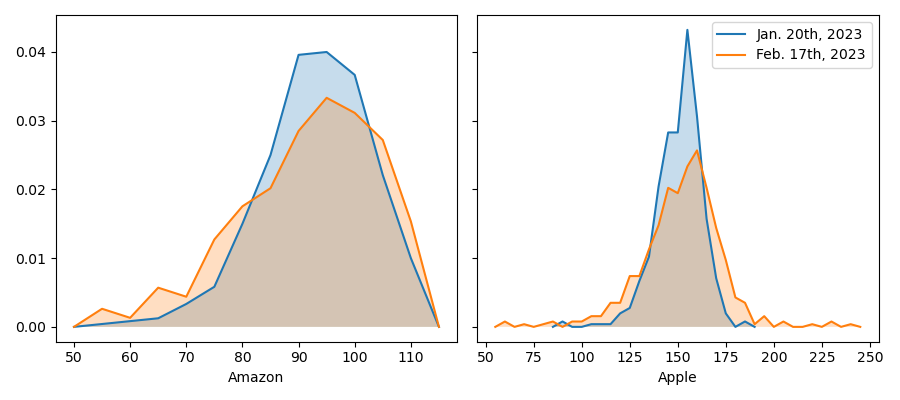
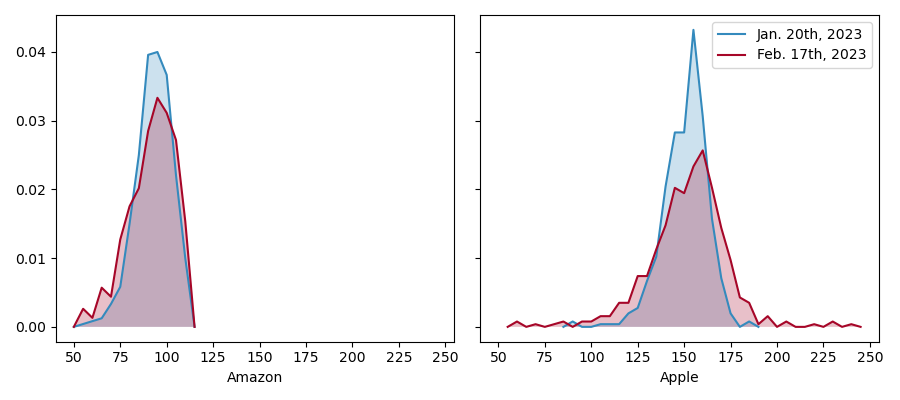
update empirical with low-info bounds

diff --git a/example_cross_empirical.py b/example_cross_empirical.py
@@ -1,0 +1,257 @@
+# -*- coding: utf-8 -*-
+"""
+Created on Mon May 24 17:35:25 2021
+@author: souzam
+PyTorch implementation of Eckstein and Kupper 2021 - Computation of Optimal Transport...
+"""
+
+# empirical marginals, d = 2
+# Example 1:   max cross-product
+# Example 2:   min cross-product
+#
+#   cross-product function (to be maximized):   cost_f(x, y) = y1 * y2
+#
+# Coupling structure:
+#   (1)   independent (4 dimensions))
+#   (2)   montone, dimension reduction on x (3 dimensions)
+#
+# Method: use vmot_core to generate "working sample" objects to be used in the optimization loop.
+# The optimization loop performs the dual approximation based on EK21.
+# We experiment with dimensionlality reduction and random vs grid sampling methods.
+
+
+import numpy as np
+import matplotlib.pyplot as pl
+from cycler import cycler
+
+import vmot
+import option_implied_inverse_cdf as empirical
+
+
+# processing parameters
+d = 2
+n_points = 1000000
+print(f'd: {d}')
+print(f'sample size: {n_points}')
+opt_parameters = { 'penalization'    : 'L2',
+                   'beta_multiplier' : 1,
+                   'gamma'           : 100,
+                   'batch_size'      : 2000,   # no special formula for this
+                   'epochs'          : 10      }
+
+# cost function to be maximized
+A = 0
+B = 1
+def cost_f(x, y):
+    # cost = A.x1.x2 + B.y1.y2
+    return A * x[:,0] * x[:,1] + B * y[:,0] * y[:,1]
+
+# negative, used to minimize the cost
+def minus_cost_f(x, y):
+    return -cost_f(x, y)
+
+
+AMZN_inv_cdf = empirical.AMZN_inv_cdf
+AAPL_inv_cdf = empirical.AAPL_inv_cdf
+
+def empirical_inv_cum_xi(q, i):
+    if i == 0:
+        return AMZN_inv_cdf[0](q)
+    if i == 1:
+        return AAPL_inv_cdf[0](q)
+
+def empirical_inv_cum_yi(q, i):
+    if i == 0:
+        return AMZN_inv_cdf[1](q)
+    if i == 1:
+        return AAPL_inv_cdf[1](q)
+
+def empirical_inv_cum_x(q):
+    return np.array([empirical_inv_cum_xi(q, i) for i in range(d)]).T
+
+
+# processing
+I = 10           # number of desired iterations
+existing_i = 10
+np.random.seed(1)
+example = 1
+if example == 1:
+    cost = cost_f
+    label = 'empirical'
+if example == 2:
+    cost = minus_cost_f
+    label = 'minus_empirical'
+
+if existing_i == 0:
+    # train & dump
+    print('\niteration 1 (new model)\n')
+    uvset1  = vmot.random_uvset(n_points, d)
+    uvset2  = vmot.random_uvset_mono(n_points, d)
+    ws1, xyset1 = vmot.generate_working_sample_uv(uvset1, empirical_inv_cum_xi, empirical_inv_cum_yi, cost_f)
+    ws2, xyset2 = vmot.generate_working_sample_uv_mono(uvset2, empirical_inv_cum_x, empirical_inv_cum_yi, cost_f)
+    model1, D_evo1, H_evo1, P_evo1, ds_evo1, hs_evo1 = vmot.mtg_train(ws1, opt_parameters, monotone = False, verbose = 10)
+    model2, D_evo2, H_evo2, P_evo2, ds_evo2, hs_evo2 = vmot.mtg_train(ws2, opt_parameters, monotone = True, verbose = 10)
+    existing_i = 1
+    print('models generated')
+    vmot.dump_results([model1, D_evo1, H_evo1, P_evo1, ds_evo1, hs_evo1], label + '_1')
+    vmot.dump_results([model2, D_evo2, H_evo2, P_evo2, ds_evo2, hs_evo2], label + '_mono_1')
+else:
+    # load
+    print(f'\nloading model {existing_i}')
+    model1, D_evo1, H_evo1, P_evo1, ds_evo1, hs_evo1 = vmot.load_results(label + f'_{existing_i}')
+    model2, D_evo2, H_evo2, P_evo2, ds_evo2, hs_evo2 = vmot.load_results(label + f'_mono_{existing_i}')
+
+# iterate optimization
+while existing_i < I:
+    
+    # new random sample
+    print(f'\niteration {existing_i+1}\n')
+    uvset1 = vmot.random_uvset(n_points, d)
+    uvset2 = vmot.random_uvset_mono(n_points, d)
+    # ws1, xyset1 = vmot.generate_working_sample_uv(uvset1, empirical_inv_cum_xi, empirical_inv_cum_yi, cost_f)
+    # ws2, xyset2 = vmot.generate_working_sample_uv_mono(uvset2, empirical_inv_cum_x, empirical_inv_cum_yi, cost_f)
+    ws1, xyset1 = vmot.generate_working_sample_uv(uvset1, empirical_inv_cum_xi, empirical_inv_cum_yi, cost_f)
+    ws2, xyset2 = vmot.generate_working_sample_uv_mono(uvset2, empirical_inv_cum_x, empirical_inv_cum_yi, cost_f)
+    
+    # train
+    _model1, _D_evo1, _H_evo1, _P_evo1, _ds_evo1, _hs_evo1 = vmot.mtg_train(ws1, opt_parameters, model=model1, monotone = False, verbose = 10)
+    _model2, _D_evo2, _H_evo2, _P_evo2, _ds_evo2, _hs_evo2 = vmot.mtg_train(ws2, opt_parameters, model=model2, monotone = True, verbose = 10)
+    
+    # concatenate
+    D_evo1  = D_evo1  + _D_evo1
+    H_evo1  = H_evo1  + _H_evo1
+    P_evo1  = P_evo1  + _P_evo1
+    ds_evo1 = ds_evo1 + _ds_evo1
+    hs_evo1 = hs_evo1 + _hs_evo1
+    model1 = _model1
+    D_evo2  = D_evo2  + _D_evo2
+    H_evo2  = H_evo2  + _H_evo2
+    P_evo2  = P_evo2  + _P_evo2
+    ds_evo2 = ds_evo2 + _ds_evo2
+    hs_evo2 = hs_evo2 + _hs_evo2
+    model2 = _model2
+    existing_i = existing_i + 1
+    print('models updated')
+    
+    # dump
+    vmot.dump_results([model1, D_evo1, H_evo1, P_evo1, ds_evo1, hs_evo1], f'minus_empirical_{existing_i}')
+    vmot.dump_results([model2, D_evo2, H_evo2, P_evo2, ds_evo2, hs_evo2], f'minus_empirical_mono_{existing_i}')
+    
+    # plot
+    evo1 = np.array(D_evo1) # random, independent
+    evo2 = np.array(D_evo2) # random, monotone
+    vmot.convergence_plot([-evo2, -evo1], ['reduced', 'full'], ref_value=-sample_mean_cost)
+    vmot.convergence_plot([-evo2, -evo1], ['reduced', 'full'], ref_value=-sample_mean_cost)
+    
+    
+# --- report mean and std over a collection of samples ---
+
+# store cost and calculate (unconditional) sample mean, if used
+cost_series = None
+sample_mean_cost = 0.0   # lower reference for the optimal cost
+
+report = True
+if report:
+    collection_size = 2 #10
+    D1_series = []
+    D2_series = []
+    P1_series = []
+    P2_series = []
+    for i in range(collection_size):
+        print(i)
+        uvset1 = vmot.random_uvset(n_points, d)
+        uvset2 = vmot.random_uvset_mono(n_points, d)
+        ws1, xyset1 = vmot.generate_working_sample_uv(uvset1, empirical_inv_cum_xi, empirical_inv_cum_yi, cost_f)
+        ws2, xyset2 = vmot.generate_working_sample_uv_mono(uvset2, empirical_inv_cum_x, empirical_inv_cum_yi, cost_f)
+        if cost_series is None: 
+            cost_series = np.hstack([ws1[:,-2], ws2[:,-2]])
+        else:
+            cost_series = np.hstack([cost_series, ws1[:,-2], ws2[:,-2]])
+        D1, P1, __ = vmot.mtg_dual_value(model1, ws1, opt_parameters, normalize_pi = False)
+        D2, P2, __ = vmot.mtg_dual_value(model2, ws2, opt_parameters, normalize_pi = False)
+        D1_series.append(D1)
+        D2_series.append(D2)
+        P1_series.append(P1)
+        P2_series.append(P2)
+    sample_mean_cost = cost_series.mean()   # central reference for the upper and lower bounds
+    print(f'sample mean cost = {sample_mean_cost:7.4f}')
+    print('dual value')
+    print(f'full:     mean = {np.mean(D1_series):8.4f};   std = {np.std(D1_series):8.4f}')
+    print(f'reduced:  mean = {np.mean(D2_series):8.4f};   std = {np.std(D2_series):8.4f}')
+    print('penalty')
+    print(f'full:     mean = {np.mean(P1_series):8.4f};   std = {np.std(P1_series):8.4f}')
+    print(f'reduced:  mean = {np.mean(P2_series):8.4f};   std = {np.std(P2_series):8.4f}')
+
+
+
+# --- low-information bounds ---
+# for the sake of comparison, calculate p+ and p- when only the t=2 distribution is known
+
+def single_period_cost_f(y):
+    # cost = A.x1.x2 + B.y1.y2
+    return y[:,0] * y[:,1]
+
+# monospaced diagonal
+diag_n  = int(1e7)
+diag_grid = np.array(range(diag_n))
+uv_set = (2 * diag_grid + 1) / (2 * diag_n)   # points in the d-hypercube
+
+# mean costs
+positive_diag_y = np.vstack([empirical_inv_cum_yi(uv_set, 0), empirical_inv_cum_yi(uv_set, 1)]).T
+positive_cost = single_period_cost_f(positive_diag_y)
+mean_positive_cost = positive_cost.mean()
+negative_diag_y = np.vstack([empirical_inv_cum_yi(uv_set[::-1], 0), empirical_inv_cum_yi(uv_set, 1)]).T
+negative_cost = single_period_cost_f(negative_diag_y)
+mean_negative_cost = negative_cost.mean()
+
+
+# --- plot all bounds ---
+existing_i=10
+a_, D_evo1_plus, _, __, ___, ____ = vmot.load_results(f'empirical_{existing_i}')
+b_, D_evo2_plus, _, __, ___, ____ = vmot.load_results(f'empirical_mono_{existing_i}')
+existing_i=20
+a_, D_evo1_minus, _, __, ___, ____ = vmot.load_results(f'minus_empirical_{existing_i}')
+b_, D_evo2_minus, _, __, ___, ____ = vmot.load_results(f'minus_empirical_mono_{existing_i}')
+
+evo_a1 = np.array(D_evo1_plus) # random, independent
+evo_a2 = np.array(D_evo2_plus) # random, monotone
+evo_b1 = -np.array(D_evo1_minus[:100]) # random, independent
+evo_b2 = -np.array(D_evo2_minus[:100]) # random, monotone
+labels = ['full', 'reduced']
+
+# choose style
+# pl.style.use('classic')
+# pl.style.use('c')
+# pl.style.use('ggplot')
+# pl.style.use('seaborn-white')
+# pl.rcParams['image.cmap'] = 'jet'   # does not work
+# print(pl.rcParams['axes.prop_cycle'].by_key()['color'])
+# pl.gca().set_prop_cycle(None)   # default color cycler
+
+# chosen color cycler (copied from 'bmh' style)
+cc = cycler('color', ['#348ABD', '#A60628', '#7A68A6', '#467821', '#D55E00', '#CC79A7', '#56B4E9', '#009E73', '#F0E442', '#0072B2'])
+
+pl.figure(figsize = [5,5])
+pl.gca().set_prop_cycle(cc)
+for v in [evo_a1, evo_a2]:
+    pl.plot(range(1, len(v)+1), v)
+pl.gca().set_prop_cycle(cc)
+for v in [evo_b1, evo_b2]:
+    pl.plot(range(1, len(v)+1), v)
+pl.legend(labels, loc='lower right')
+
+pl.axhline(mean_positive_cost, linestyle='-', color='grey')
+pl.axhline(sample_mean_cost, linestyle=':', color='grey')
+pl.axhline(mean_negative_cost, linestyle='-', color='grey')
+
+# pl.title(title)
+shift = .035 * (pl.gca().get_ylim()[1] - pl.gca().get_ylim()[0])
+# pl.annotate('sample mean', (len(v)*1/4, -sample_mean_cost-shift), color=ref_color)   # trial and error to find a good position
+pl.annotate(r'$p^+$', (len(v)*3/4, D_evo1_plus[-1]+shift))   # trial and error to find a good position
+pl.annotate(r'$p^-$', (len(v)*3/4, -D_evo1_minus[-1]-2*shift))   # trial and error to find a good position
+pl.tight_layout()
+pl.show()
+
+
+
+

diff --git a/empirical_sample/examples_cross.py b/empirical_sample/examples_cross.py
@@ -261,11 +261,11 @@ pl.figure(figsize = [5,5])
 for v in [evo2, evo1]:
     pl.plot(range(1, len(v)+1), v)
 if not ref_value is None:
-    pl.axhline(ref_value, linestyle=':', color=ref_color)
+    pl.axhline(-sample_mean_cost, linestyle=':', color='black')
 pl.legend(labels)
 # pl.title(title)
 shift = .035 * (pl.gca().get_ylim()[1] - pl.gca().get_ylim()[0])
-pl.annotate('(lower bound)', (len(v)*1/5, ref_value-shift), color=ref_color)   # trial and error to find a good position
+pl.annotate('(lower bound)', (len(v)*1/5, ref_value-shift), color='black')   # trial and error to find a good position
 pl.show()
 
 
@@ -364,3 +364,47 @@ vmot.dump_results([model1, D_evo1, H_evo1, P_evo1, ds_evo1, hs_evo1, model2, D_e
 #     fig.colorbar(im)
     
 #     return heat_x, heat_y
+
+
+
+
+# plot both bounds
+existing_i=10
+a_, D_evo1_plus, _, __, ___, ____ = vmot.load_results(f'empirical_{existing_i}')
+b_, D_evo2_plus, _, __, ___, ____ = vmot.load_results(f'empirical_mono_{existing_i}')
+a_, D_evo1_minus, _, __, ___, ____ = vmot.load_results(f'minus_empirical_{existing_i}')
+b_, D_evo2_minus, _, __, ___, ____ = vmot.load_results(f'minus_empirical_mono_{existing_i}')
+
+evo1 = np.array(D_evo1_plus) # random, independent
+evo2 = np.array(D_evo2_plus) # random, monotone
+
+pl.figure(figsize = [5,5])
+for v in [evo2, evo1]:
+    pl.plot(range(1, len(v)+1), v)
+
+pl.gca().set_prop_cycle(None)   # reset color cycler
+evo1 = -np.array(D_evo1_minus) # random, independent
+evo2 = -np.array(D_evo2_minus) # random, monotone
+for v in [evo2, evo1]:
+    pl.plot(range(1, len(v)+1), v)
+pl.axhline(-sample_mean_cost, linestyle=':', color=ref_color)
+pl.legend(['reduced', 'full'], loc='lower right')
+
+# pl.title(title)
+shift = .035 * (pl.gca().get_ylim()[1] - pl.gca().get_ylim()[0])
+pl.annotate('sample mean', (len(v)*1/4, -sample_mean_cost-shift), color=ref_color)   # trial and error to find a good position
+pl.annotate(r'$p^+$', (len(v)*3/4, D_evo1_plus[-1]+shift), color=ref_color)   # trial and error to find a good position
+pl.annotate(r'$p^-$', (len(v)*3/4, -D_evo1_minus[-1]-2*shift), color=ref_color)   # trial and error to find a good position
+pl.show()
+
+
+
+if not ref_value is None:
+    pl.axhline(ref_value, linestyle=':', color=ref_color)
+
+pl.axhline(, linestyle=':', color=ref_color)
+pl.legend(labels)
+shift = .035 * (pl.gca().get_ylim()[1] - pl.gca().get_ylim()[0])
+pl.annotate('(sample mean)', (len(v)*1/5, ref_value-shift), color=ref_color)   # trial and error to find a good position
+pl.show()
+

diff --git a/marginals_plot.py b/marginals_plot.py
@@ -7,6 +7,7 @@ Created on Mon Jun 19 11:30:45 2023
 import numpy as np
 import pandas as pd
 import matplotlib.pyplot as pl
+from cycler import cycler
 
 # plot marginals from xls file
 _path = './data/Marginal plot.xlsx'
@@ -18,8 +19,12 @@ marginals = np.maximum(marginals, np.zeros(marginals.shape))
 marginals = marginals * .2 / marginals.sum()
 
 
+# chosen color cycler (see empirical example)
+cc = cycler('color', ['#348ABD', '#A60628', '#7A68A6', '#467821', '#D55E00', '#CC79A7', '#56B4E9', '#009E73', '#F0E442', '#0072B2'])
+
 # plot
-fig, ax = pl.subplots(1, 2, figsize = [9,4], sharey=True)   # plot in two iterations to have a clean legend
+fig, ax = pl.subplots(1, 2, figsize = [12,4], sharex=True, sharey=True)   # plot in two iterations to have a clean legend
+[a.set_prop_cycle(cc) for a in ax]
 ax[0].plot(marginals[['AMZN_1', 'AMZN_2']])
 ax[0].fill_between(marginals.index, marginals['AMZN_1'], alpha = .25)
 ax[0].fill_between(marginals.index, marginals['AMZN_2'], alpha = .25)
@@ -31,4 +36,5 @@ ax[1].set_xlabel('Apple')
 ax[1].legend(['Jan. 20th, 2023', 'Feb. 17th, 2023'], loc='upper right')
 fig.tight_layout()
 fig.show()
+
 
